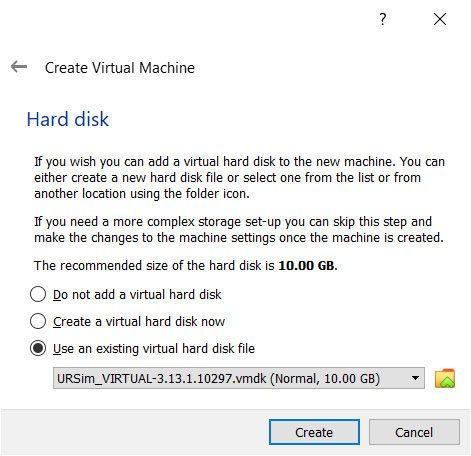
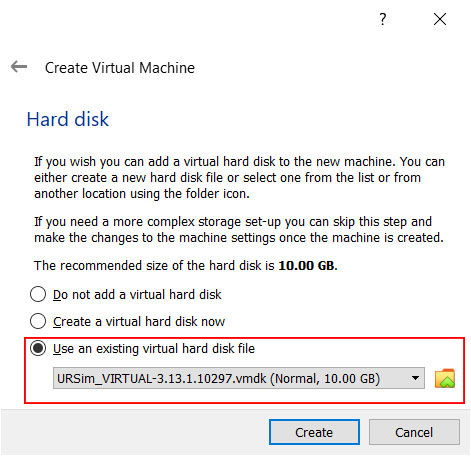
¨MD update

Changed region(s): [[0.0297, 0.7368, 1.0, 0.8904]]

diff --git a/README.md b/README.md
@@ -10,11 +10,11 @@ This method is built upon this [guide](https://academy.universal-robots.com/medi
 
 ## Steps
 
-* Install Oracle VM Virtualbox
-* Download preferred version of URSim
-* Install URSim in VirualBox
-* Configure VMWare to connect with Windows
-* Simulate with Grasshopper
+1. Install Oracle VM Virtualbox
+2. Download preferred version of URSim
+3. Install URSim in VirualBox
+4. Configure VMWare to connect with Windows
+5. Simulate with Grasshopper
 
 # 1. Install Oracle VirualBox
 
@@ -34,12 +34,28 @@ This method is built upon this [guide](https://academy.universal-robots.com/medi
 # 3. Install Install URSim in Virtualbox
 __*Now follow the steps to get a working version of URSim in VM VirualBox*__
 
-* Open Oracle Vm VirtualBox Manager and click on 'New'
+1. Open Oracle Vm VirtualBox Manager and click on 'New'
 
 ![Click on New](/images/03_ursim_vm_start.jpg)
 
-* Give it a relevant name and chose where to keep the Virual Machine. On machine type select **Linux** and Version as **Ubuntu 64 Bit**.
+2. Give it a relevant name and chose where to keep the Virual Machine. On machine type select **Linux** and Version as **Ubuntu 64 Bit**.
 
 ![Machine Type](/images/04_ursim_vm_chose_OS_type.jpg)
 
-*
+3. Assign around 1-2 GB of memory depending on your base system
+
+![Assign memory](/images/05_ursim_vm_assign_ram.jpg)
+
+4. Next step is to assign an existing hard disk. When prompted, clck on _Use and Existing virtual hard disk file_ and click on the Folder icon beside it.
+
+![Select HD](/images/06_ursim_vm_chose_hd_1)
+
+5. Click on _Add_ and browse to the folder where you have extracted the URSim ZIP file and select the file on top of the list.
+
+![Select HD](/images/06_ursim_vm_chose_hd_2)
+![Select HD](/images/06_ursim_vm_chose_hd_3)
+
+6. Now click on _Create_ button and your Virtual Machine will be ready.
+
+![Select HD](/images/06_ursim_vm_chose_hd_4)
+![Select HD](/images/06_ursim_vm_create.jpg)
